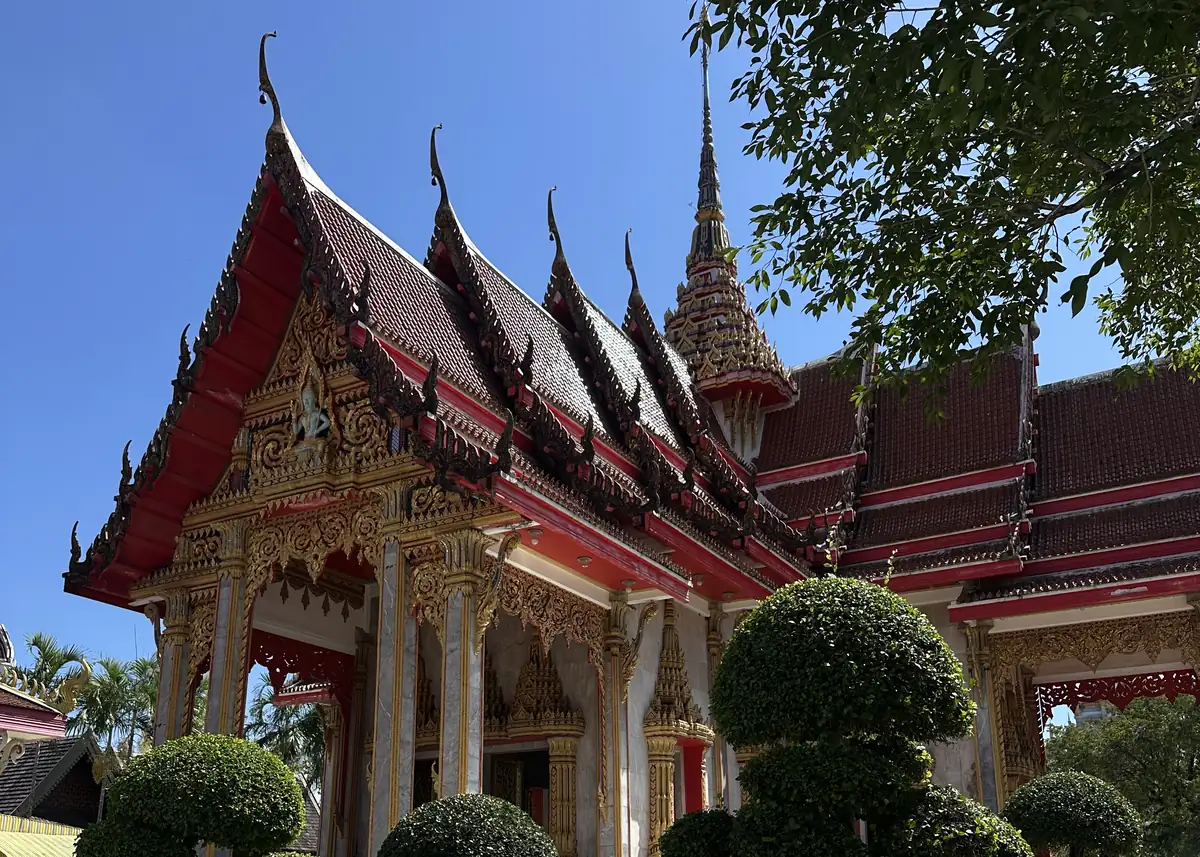
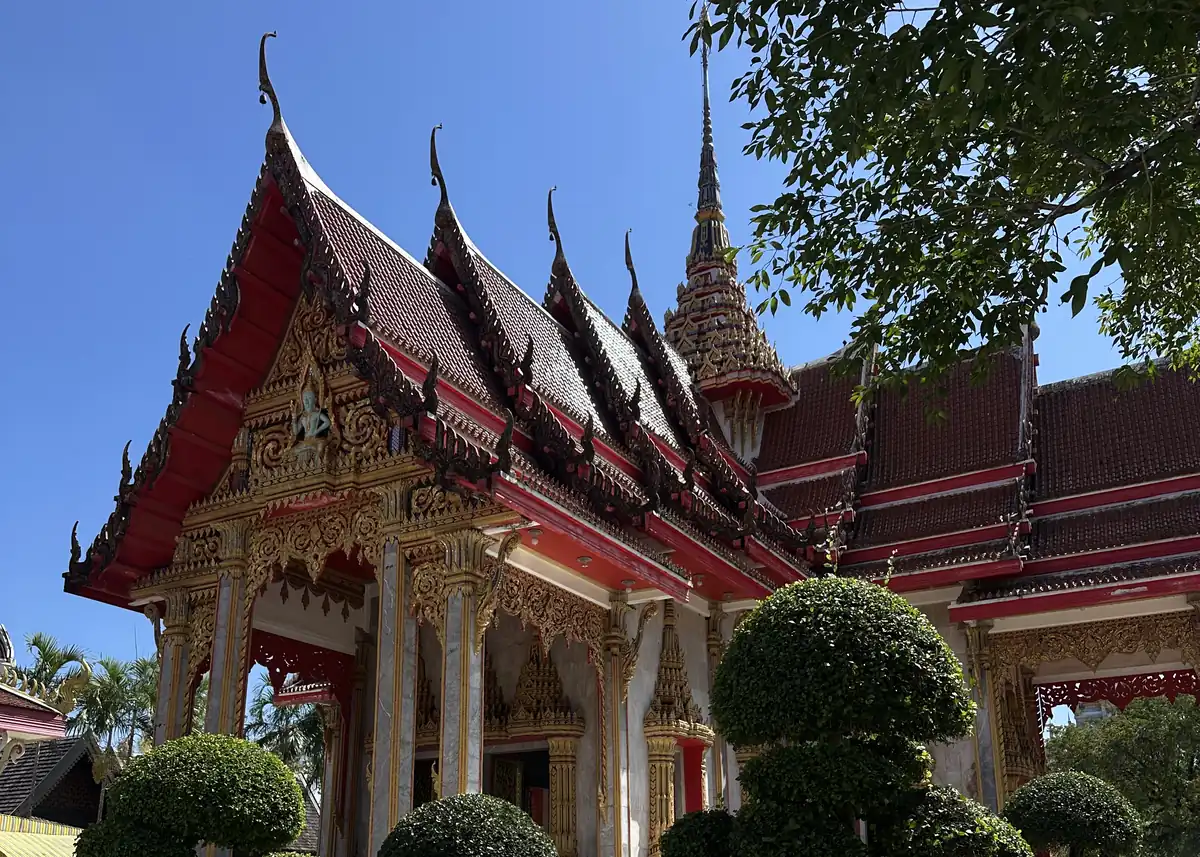
Perf: preload latin font, intermediate image sizes for high-DPR phones, defer to-top measure
- Add 750w mobile hero, 900w temple/yacht/hammock; recompress temple-1200
- Preload onest-latin.woff2 (was discovered only after CSS)
- Back-to-top: initial scroll check in requestAnimationFrame (avoid forced reflow)

diff --git a/index.html b/index.html
@@ -34,7 +34,8 @@
   <meta name="twitter:card" content="summary_large_image">
 
   <link rel="preload" href="fonts/onest-cyrillic.woff2" as="font" type="font/woff2" crossorigin>
-  <link rel="preload" as="image" href="img/hero-m-900.webp" imagesrcset="img/hero-m-600.webp 600w, img/hero-m-900.webp 900w" imagesizes="100vw" media="(max-width: 767px)" fetchpriority="high">
+  <link rel="preload" href="fonts/onest-latin.woff2" as="font" type="font/woff2" crossorigin>
+  <link rel="preload" as="image" href="img/hero-m-750.webp" imagesrcset="img/hero-m-600.webp 600w, img/hero-m-750.webp 750w, img/hero-m-900.webp 900w" imagesizes="100vw" media="(max-width: 767px)" fetchpriority="high">
   <link rel="preload" as="image" href="img/hero-1280.webp" imagesrcset="img/hero-1280.webp 1280w, img/hero-1920.webp 1920w" imagesizes="100vw" media="(min-width: 768px)" fetchpriority="high">
   <link rel="stylesheet" href="tailwind.css">
   <script type="application/ld+json">
@@ -178,7 +179,7 @@
     <section class="relative isolate overflow-hidden bg-ink text-white">
       <picture>
         <source media="(min-width: 768px)" srcset="img/hero-1280.webp 1280w, img/hero-1920.webp 1920w" sizes="100vw">
-        <img src="img/hero-m-900.webp" srcset="img/hero-m-600.webp 600w, img/hero-m-900.webp 900w" sizes="100vw"
+        <img src="img/hero-m-750.webp" srcset="img/hero-m-600.webp 600w, img/hero-m-750.webp 750w, img/hero-m-900.webp 900w" sizes="100vw"
           width="900" height="1111" fetchpriority="high" decoding="async" alt="" class="absolute inset-0 -z-10 w-full h-full object-cover object-[50%_45%] md:object-[50%_60%]">
       </picture>
       <div aria-hidden="true" class="absolute inset-0 -z-10 bg-gradient-to-b from-ink/55 via-ink/25 to-ink/70 md:bg-gradient-to-r md:from-ink/70 md:via-ink/25 md:to-transparent"></div>
@@ -272,7 +273,7 @@
 
         <div class="mt-12 grid md:grid-cols-2 lg:grid-cols-3 gap-4">
           <article class="reveal md:col-span-2 relative isolate overflow-hidden rounded-3xl bg-thaiTeal text-white p-8 md:p-10 min-h-[320px] md:min-h-[360px] flex flex-col justify-end">
-            <img src="img/temple-700.webp" srcset="img/temple-700.webp 700w, img/temple-1200.webp 1200w" sizes="(min-width: 1024px) 66vw, (min-width: 768px) 100vw, 100vw"
+            <img src="img/temple-700.webp" srcset="img/temple-700.webp 700w, img/temple-900.webp 900w, img/temple-1200.webp 1200w" sizes="(min-width: 1024px) 66vw, (min-width: 768px) 100vw, 100vw"
               width="1200" height="857" loading="lazy" decoding="async" alt="" class="absolute inset-0 -z-10 w-full h-full object-cover object-[50%_65%]">
             <div aria-hidden="true" class="absolute inset-0 -z-10 bg-gradient-to-t from-ink/80 via-ink/25 to-transparent"></div>
             <span class="grid place-items-center w-12 h-12 rounded-2xl bg-white/20 backdrop-blur-sm">
@@ -353,7 +354,7 @@
           <!-- Экскурсии -->
           <div class="reveal overflow-hidden rounded-3xl bg-white p-7 md:p-9 ring-1 ring-ink/5 flex flex-col">
             <figure class="relative -mx-7 -mt-7 mb-7 md:-mx-9 md:-mt-9 md:mb-8 aspect-[2/1] sm:aspect-[5/2] bg-chat">
-              <img src="img/yacht-700.webp" srcset="img/yacht-700.webp 700w, img/yacht-1200.webp 1200w" sizes="(min-width: 1024px) 660px, 100vw"
+              <img src="img/yacht-700.webp" srcset="img/yacht-700.webp 700w, img/yacht-900.webp 900w, img/yacht-1200.webp 1200w" sizes="(min-width: 1024px) 660px, 100vw"
                 width="1200" height="595" loading="lazy" decoding="async" alt="Катамараны в марине на закате" class="absolute inset-0 w-full h-full object-cover object-[50%_60%]">
               <figcaption class="absolute left-4 bottom-4 rounded-full bg-white/90 backdrop-blur px-3.5 py-1.5 text-sm font-semibold shadow">
                 Морские программы — от 2&nbsp;400&nbsp;฿
@@ -424,7 +425,7 @@
     <section id="advantages" class="py-20 md:py-28 scroll-mt-16">
       <div class="container grid lg:grid-cols-[0.85fr_1.15fr] gap-10 lg:gap-16 items-start">
         <figure class="reveal relative overflow-hidden rounded-3xl bg-chat aspect-[4/3] sm:aspect-[16/10] lg:aspect-[4/5] lg:sticky lg:top-24">
-          <img src="img/hammock-700.webp" srcset="img/hammock-700.webp 700w, img/hammock-1100.webp 1100w" sizes="(min-width: 1024px) 480px, 100vw"
+          <img src="img/hammock-700.webp" srcset="img/hammock-700.webp 700w, img/hammock-900.webp 900w, img/hammock-1100.webp 1100w" sizes="(min-width: 1024px) 480px, 100vw"
             width="1100" height="1375" loading="lazy" decoding="async" alt="Гамак под пальмой на пляже у моря" class="absolute inset-0 w-full h-full object-cover object-[50%_70%] lg:object-center">
           <figcaption class="absolute left-4 bottom-4 right-4 sm:right-auto flex items-center gap-3 rounded-2xl bg-white/90 backdrop-blur px-4 py-3 shadow-lg">
             <span class="grid place-items-center w-9 h-9 shrink-0 rounded-xl bg-thaiTeal/10 text-thaiTeal">
@@ -795,7 +796,7 @@
       window.addEventListener('scroll', () => {
         if (!ticking) { ticking = true; requestAnimationFrame(update); }
       }, { passive: true });
-      update();
+      requestAnimationFrame(update);
       toTop.addEventListener('click', () => {
         const reduce = window.matchMedia('(prefers-reduced-motion: reduce)').matches;
         window.scrollTo({ top: 0, behavior: reduce ? 'auto' : 'smooth' });
